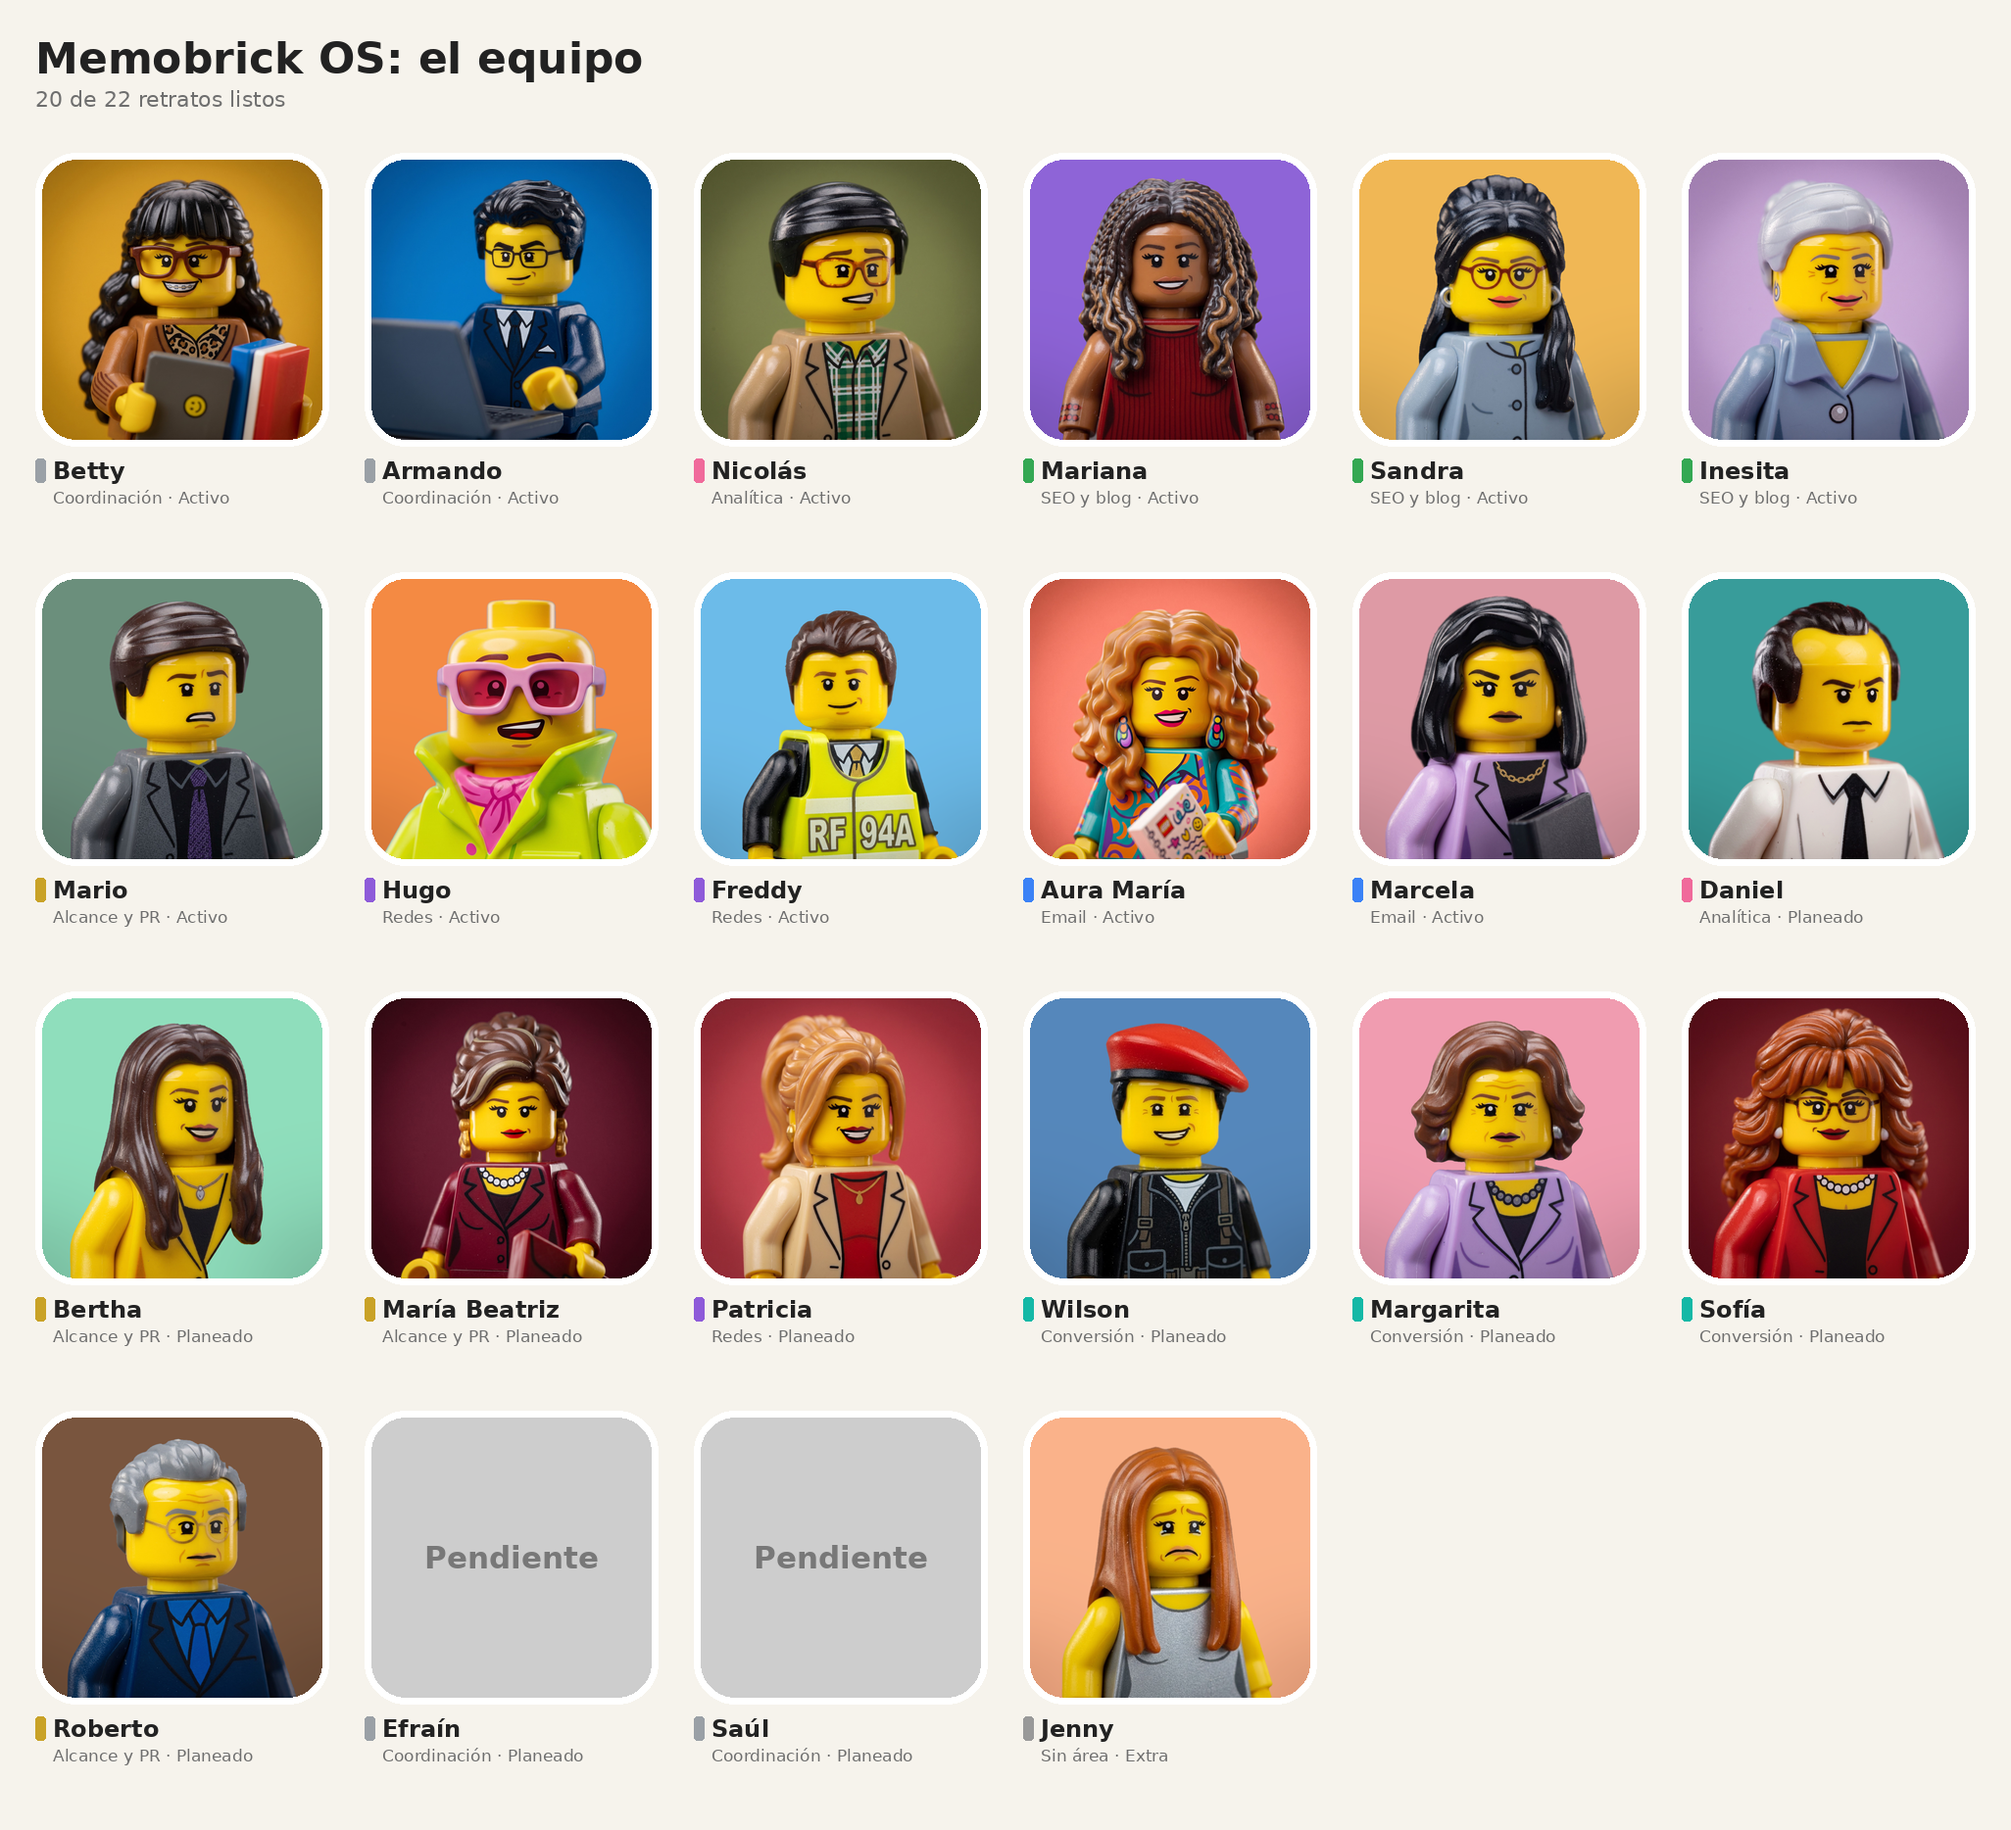
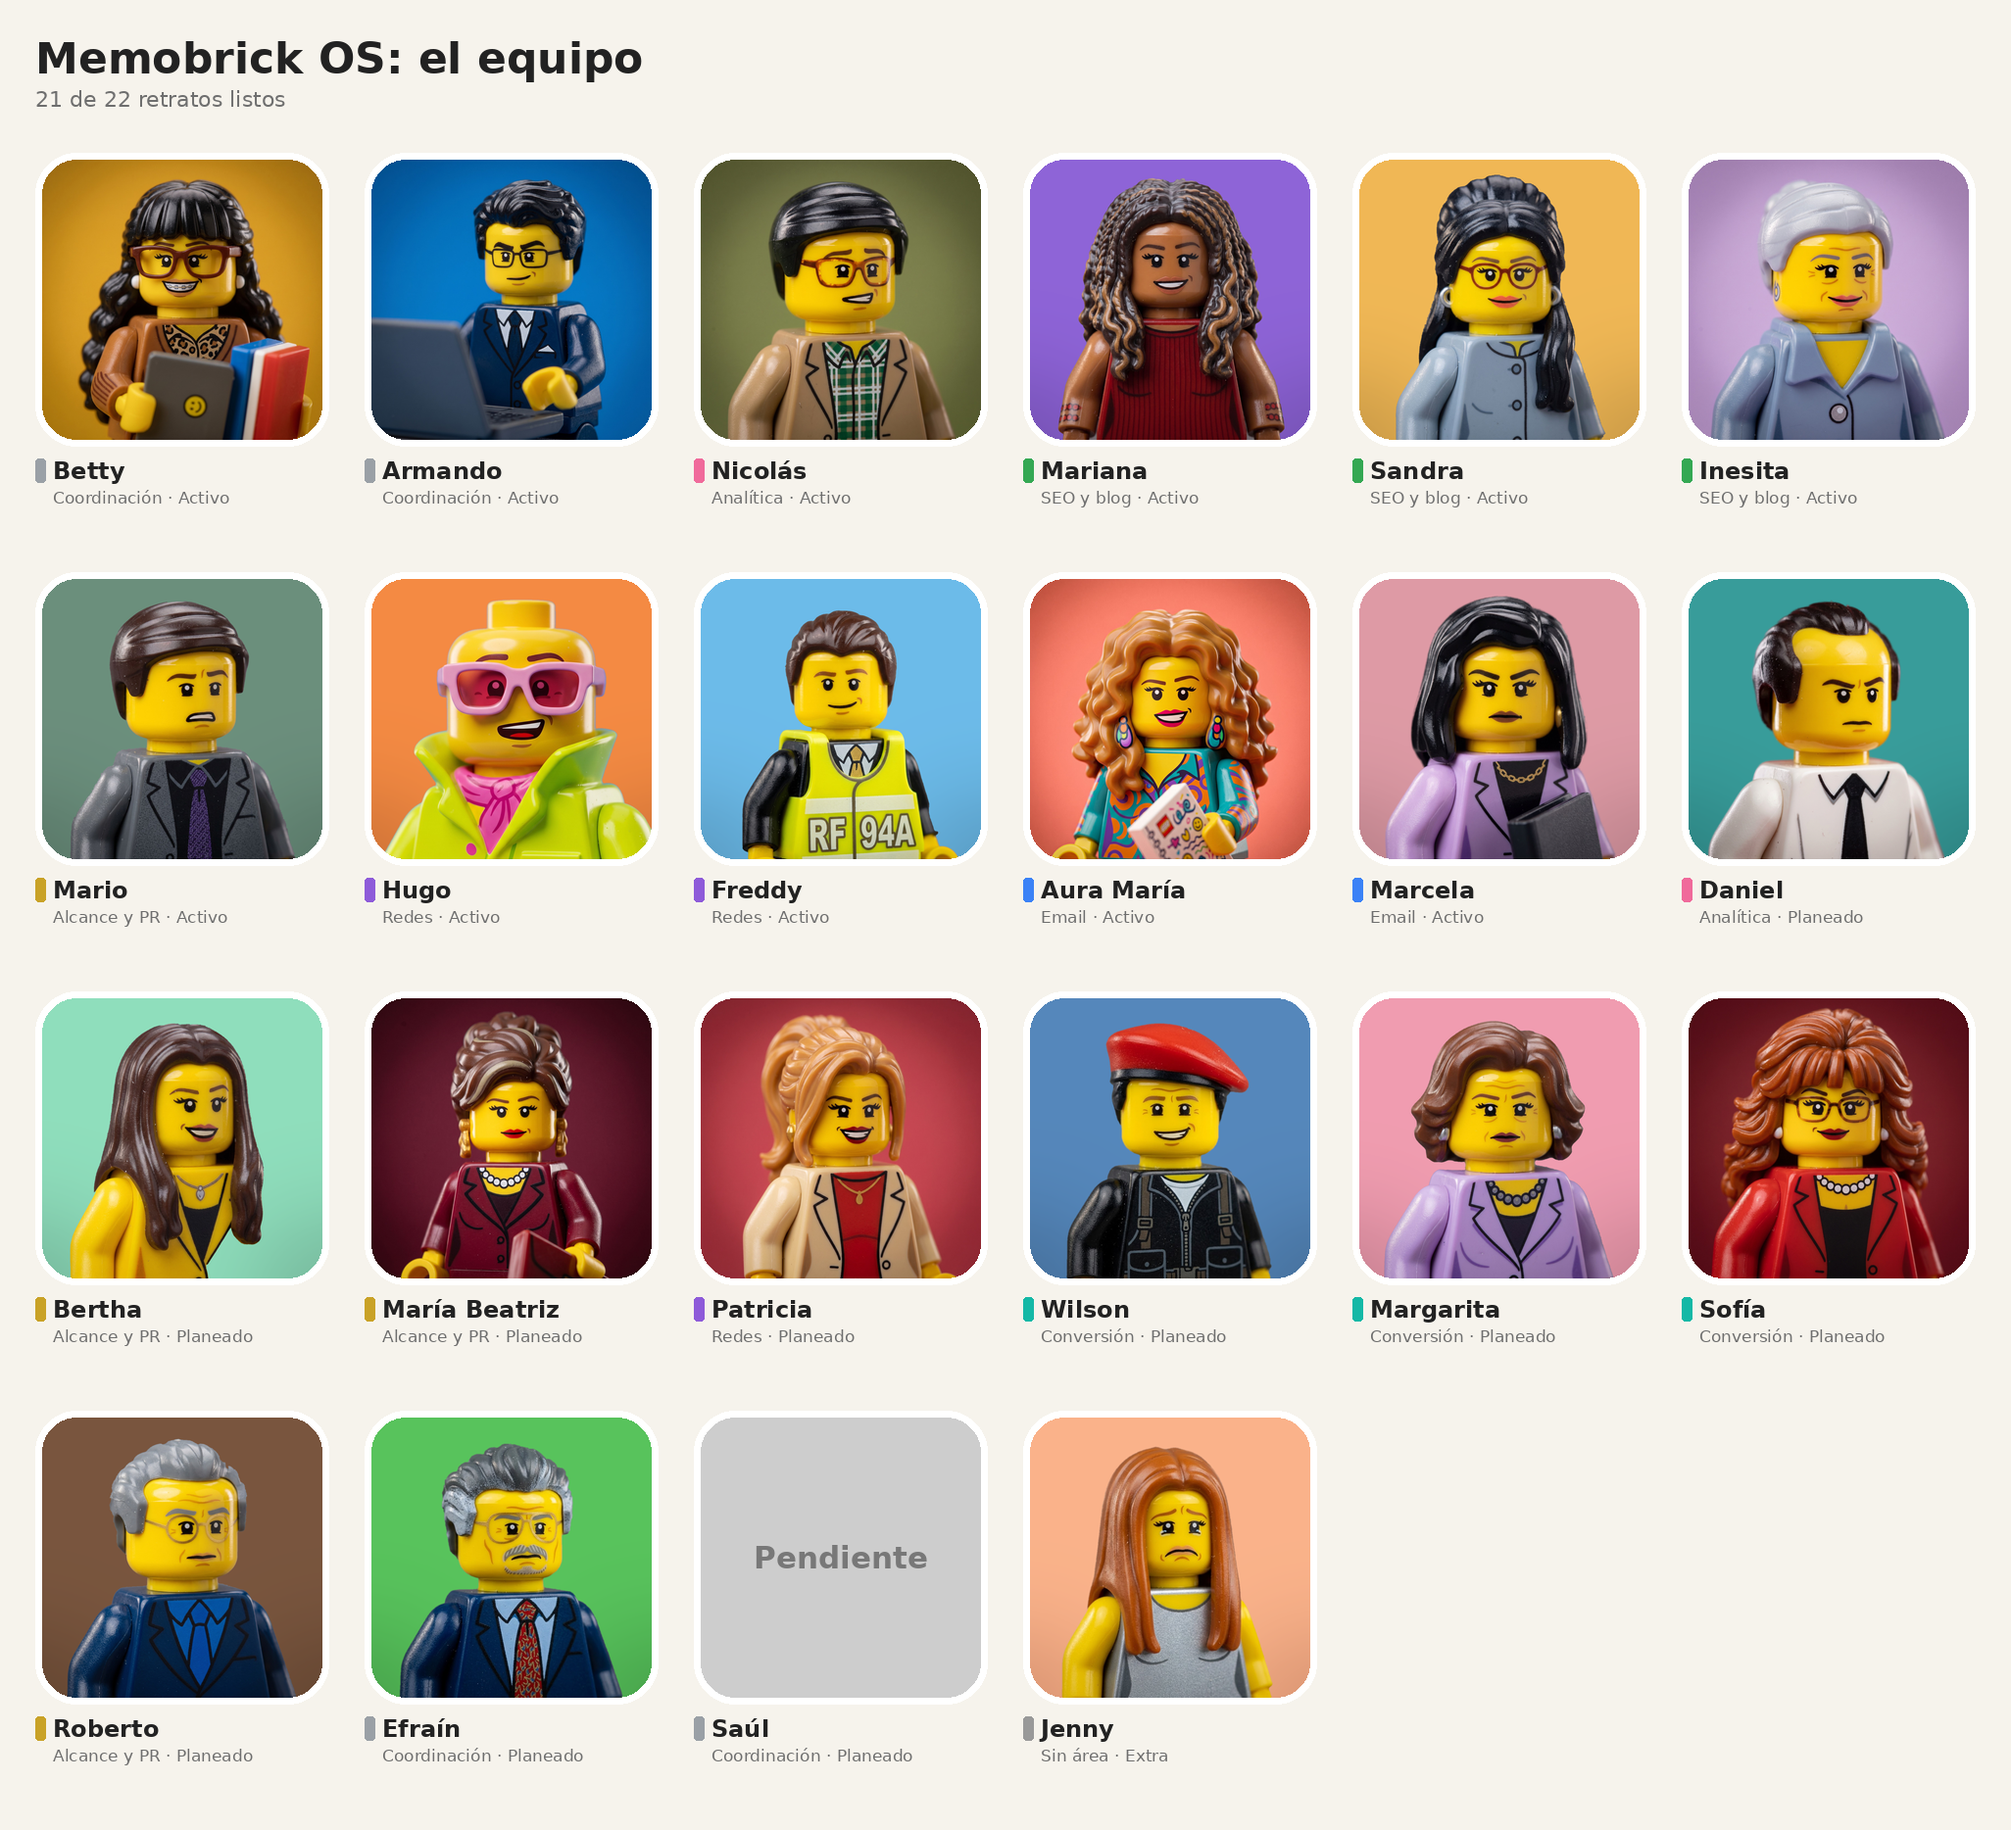
Memobrick OS: Efraín portrait (fresh green) and figure
Claude-Session: https://claude.ai/code/session_01AMLDVzMa2aGkQPfaF6oXBQ

Changed region(s): [[0.1871, 0.7762, 0.3431, 0.9315]]

diff --git a/os/prompts/avatars.md b/os/prompts/avatars.md
@@ -88,7 +88,7 @@ Jenny, the sensitive one: long straight auburn hair with a center part, worried 
 
 ## 20. Efraín (fresh green)
 
-Efraín, reliable and hardworking: short dark hair, green polo shirt, lanyard with an ID badge, steady friendly expression, holding a clipboard. Fresh-green backdrop.
+Efraín, the seasoned old-timer: swept-back salt-and-pepper gray hair, thin gold aviator glasses, gray mustache and stubble, gruff frown, navy suit over a light-blue shirt with a red paisley tie. Fresh-green backdrop.
 
 ## 21. Wilson (steel blue)
 
